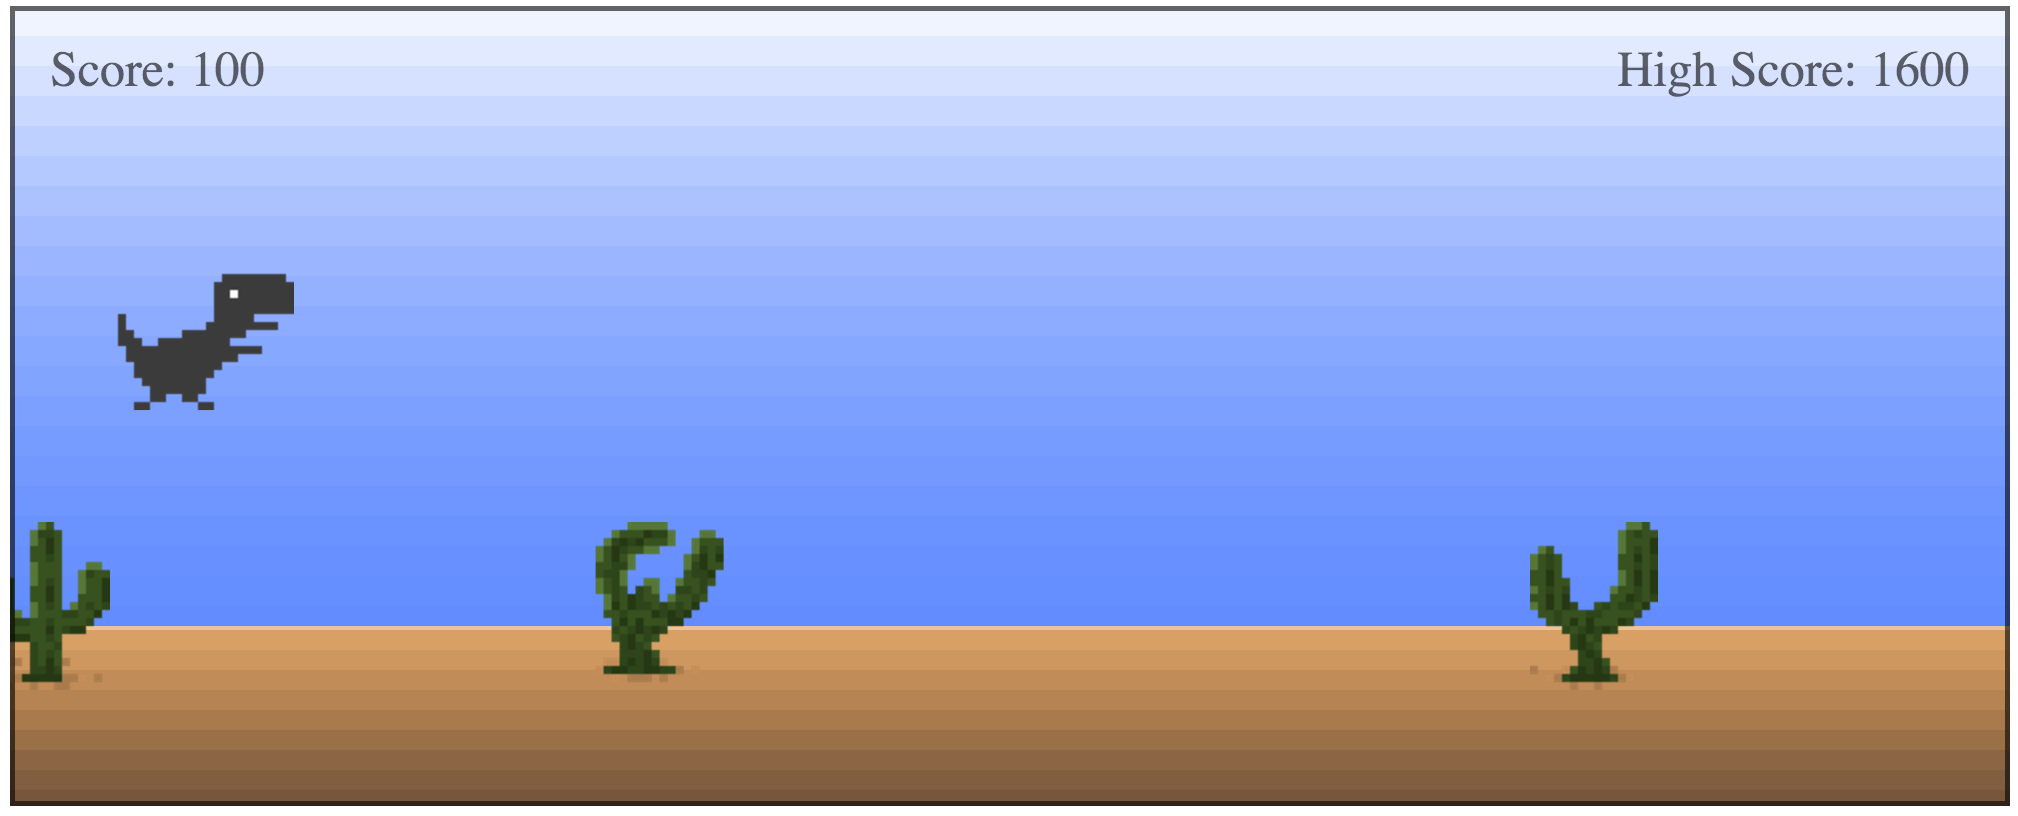
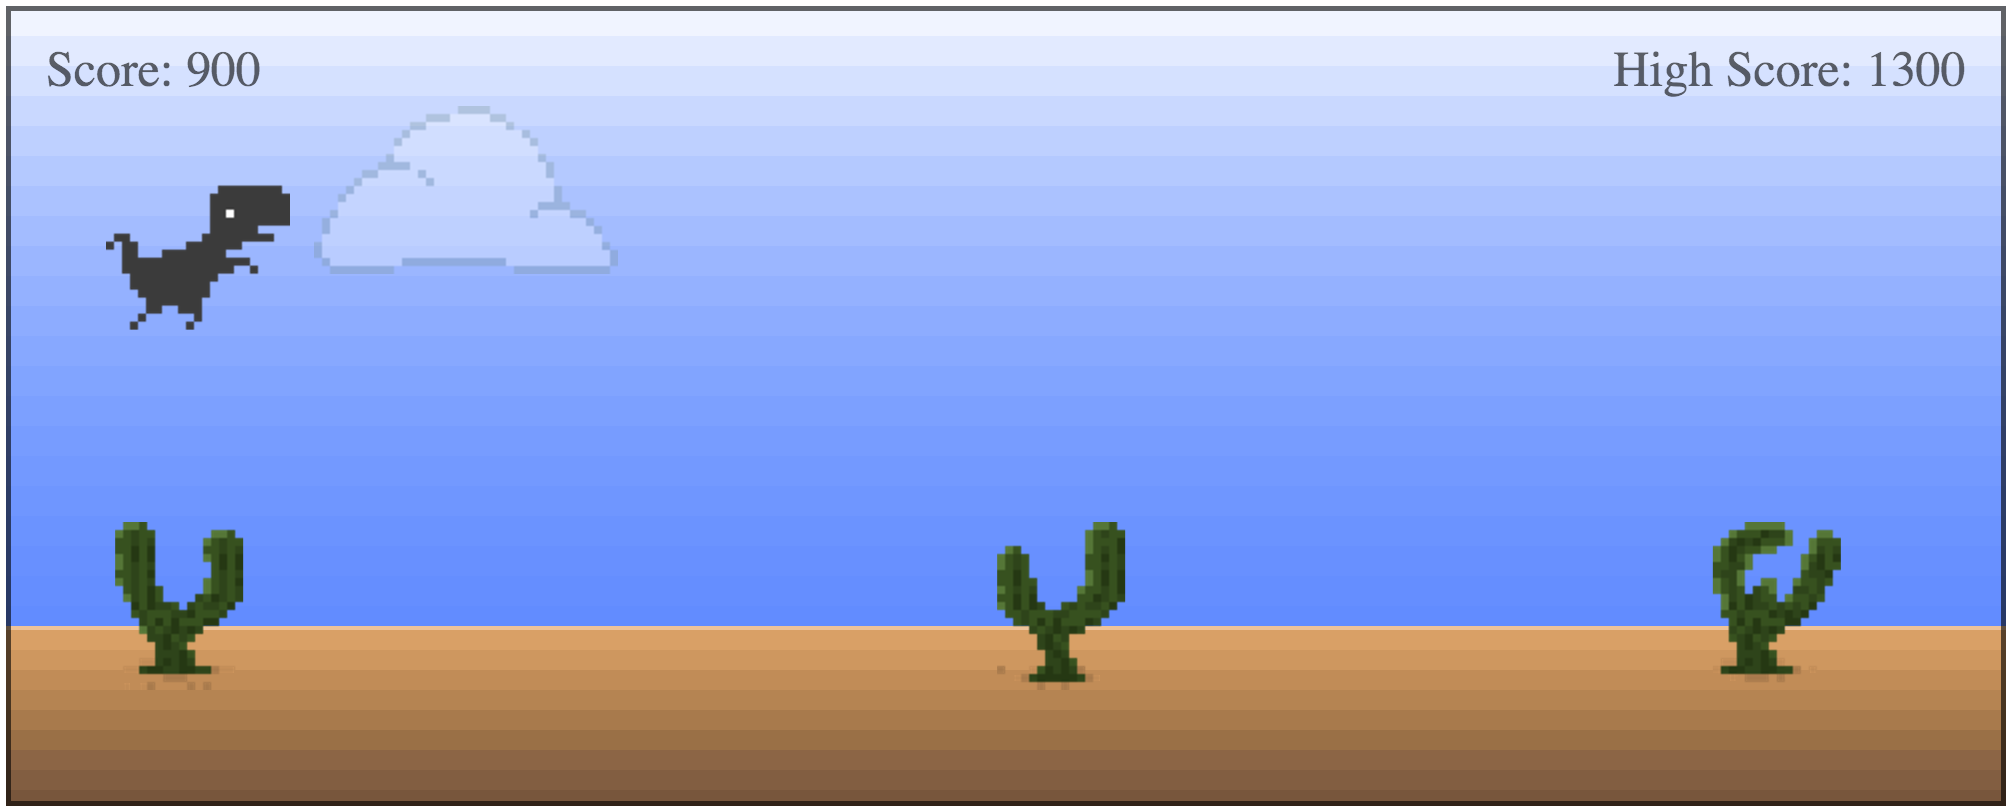
Deployed new version to gh-pages!

Changed region(s): [[0.0, 0.0308, 1.0, 1.0], [0.2157, 0.1232, 0.2465, 0.1539]]

diff --git a/target/elm.js b/target/elm.js
@@ -11578,6 +11578,64 @@ var _joelchelliah$elm_rex$CactusGenerator$Model = F3(
 		return {seed: a, cacti: b, spawnTimer: c};
 	});
 
+var _joelchelliah$elm_rex$Cloud$size = {width: 152, height: 84};
+var _joelchelliah$elm_rex$Cloud$view = function (cloud) {
+	return A2(
+		_elm_lang$svg$Svg$image,
+		{
+			ctor: '::',
+			_0: _elm_lang$svg$Svg_Attributes$x(
+				_elm_lang$core$Basics$toString(cloud.xPos)),
+			_1: {
+				ctor: '::',
+				_0: _elm_lang$svg$Svg_Attributes$y(
+					_elm_lang$core$Basics$toString(50)),
+				_1: {
+					ctor: '::',
+					_0: _elm_lang$svg$Svg_Attributes$width(
+						_elm_lang$core$Basics$toString(_joelchelliah$elm_rex$Cloud$size.width)),
+					_1: {
+						ctor: '::',
+						_0: _elm_lang$svg$Svg_Attributes$height(
+							_elm_lang$core$Basics$toString(_joelchelliah$elm_rex$Cloud$size.height)),
+						_1: {
+							ctor: '::',
+							_0: _elm_lang$svg$Svg_Attributes$opacity('0.3'),
+							_1: {
+								ctor: '::',
+								_0: _elm_lang$svg$Svg_Attributes$xlinkHref('images/clouds/cloud_0.png'),
+								_1: {ctor: '[]'}
+							}
+						}
+					}
+				}
+			}
+		},
+		{ctor: '[]'});
+};
+var _joelchelliah$elm_rex$Cloud$update = F2(
+	function (delta, _p0) {
+		var _p1 = _p0;
+		var _p5 = _p1.xPos;
+		var _p4 = _p1.speed;
+		var _p3 = _p1;
+		var _p2 = {ctor: '_Tuple2', _0: 0, _1: _joelchelliah$elm_rex$WindowSize$windowWidth - _joelchelliah$elm_rex$Cloud$size.width};
+		var leftEdge = _p2._0;
+		var rightEdge = _p2._1;
+		return (_elm_lang$core$Native_Utils.cmp(_p5, leftEdge) < 0) ? _elm_lang$core$Native_Utils.update(
+			_p3,
+			{xPos: leftEdge, speed: 0 - _p4}) : ((_elm_lang$core$Native_Utils.cmp(_p5, rightEdge) > 0) ? _elm_lang$core$Native_Utils.update(
+			_p3,
+			{xPos: rightEdge, speed: 0 - _p4}) : _elm_lang$core$Native_Utils.update(
+			_p3,
+			{xPos: _p3.xPos - (_p3.speed * delta)}));
+	});
+var _joelchelliah$elm_rex$Cloud$init = {xPos: 700, speed: 2.0e-2};
+var _joelchelliah$elm_rex$Cloud$Model = F2(
+	function (a, b) {
+		return {xPos: a, speed: b};
+	});
+
 var _joelchelliah$elm_rex$Hud$Model = F3(
 	function (a, b, c) {
 		return {score: a, highScore: b, state: c};
@@ -12157,9 +12215,9 @@ var _joelchelliah$elm_rex$Game$codeToRexMsg = function (code) {
 			return _joelchelliah$elm_rex$Rex$Run;
 	}
 };
-var _joelchelliah$elm_rex$Game$Model = F5(
-	function (a, b, c, d, e) {
-		return {state: a, hud: b, rex: c, cactusGen: d, seed: e};
+var _joelchelliah$elm_rex$Game$Model = F6(
+	function (a, b, c, d, e, f) {
+		return {state: a, hud: b, rex: c, cactusGen: d, cloud: e, seed: f};
 	});
 var _joelchelliah$elm_rex$Game$GameOver = {ctor: 'GameOver'};
 var _joelchelliah$elm_rex$Game$Paused = {ctor: 'Paused'};
@@ -12171,6 +12229,7 @@ var _joelchelliah$elm_rex$Game$init = function (seed) {
 		hud: _joelchelliah$elm_rex$Hud$init,
 		rex: _joelchelliah$elm_rex$Rex$init,
 		cactusGen: _joelchelliah$elm_rex$CactusGenerator$init(seed),
+		cloud: _joelchelliah$elm_rex$Cloud$init,
 		seed: _joelchelliah$elm_rex$Game$nextSeed(seed)
 	};
 };
@@ -12180,6 +12239,7 @@ var _joelchelliah$elm_rex$Game$restart = function (game) {
 		hud: A2(_joelchelliah$elm_rex$Hud$update, _joelchelliah$elm_rex$Hud$Reset, game.hud),
 		rex: _joelchelliah$elm_rex$Rex$init,
 		cactusGen: _joelchelliah$elm_rex$CactusGenerator$init(game.seed),
+		cloud: game.cloud,
 		seed: _joelchelliah$elm_rex$Game$nextSeed(game.seed)
 	};
 };
@@ -12204,10 +12264,18 @@ var _joelchelliah$elm_rex$Game$viewCacti = function (elems) {
 		{ctor: '[]'},
 		A2(_elm_lang$core$List$map, render, elems));
 };
-var _joelchelliah$elm_rex$Game$viewRex = function (rex) {
+var _joelchelliah$elm_rex$Game$viewCloud = function (cloud) {
 	return A2(
 		_elm_lang$html$Html$map,
 		function (_p7) {
+			return _joelchelliah$elm_rex$Game$SubMsg;
+		},
+		_joelchelliah$elm_rex$Cloud$view(cloud));
+};
+var _joelchelliah$elm_rex$Game$viewRex = function (rex) {
+	return A2(
+		_elm_lang$html$Html$map,
+		function (_p8) {
 			return _joelchelliah$elm_rex$Game$SubMsg;
 		},
 		_joelchelliah$elm_rex$Rex$view(rex));
@@ -12215,42 +12283,46 @@ var _joelchelliah$elm_rex$Game$viewRex = function (rex) {
 var _joelchelliah$elm_rex$Game$viewHud = function (hud) {
 	return A2(
 		_elm_lang$html$Html$map,
-		function (_p8) {
+		function (_p9) {
 			return _joelchelliah$elm_rex$Game$SubMsg;
 		},
 		_joelchelliah$elm_rex$Hud$view(hud));
 };
-var _joelchelliah$elm_rex$Game$view = function (_p9) {
-	var _p10 = _p9;
-	var _p12 = _p10.hud;
+var _joelchelliah$elm_rex$Game$view = function (_p10) {
+	var _p11 = _p10;
+	var _p13 = _p11.hud;
 	var sceneElements = {
 		ctor: '::',
 		_0: _joelchelliah$elm_rex$Game$viewBackground,
 		_1: {
 			ctor: '::',
-			_0: _joelchelliah$elm_rex$Game$viewCacti(_p10.cactusGen.cacti),
+			_0: _joelchelliah$elm_rex$Game$viewCacti(_p11.cactusGen.cacti),
 			_1: {
 				ctor: '::',
-				_0: _joelchelliah$elm_rex$Game$viewRex(_p10.rex),
+				_0: _joelchelliah$elm_rex$Game$viewCloud(_p11.cloud),
 				_1: {
 					ctor: '::',
-					_0: A2(_joelchelliah$elm_rex$Game$viewAlert, _p10.state, _p12.score),
+					_0: _joelchelliah$elm_rex$Game$viewRex(_p11.rex),
 					_1: {
 						ctor: '::',
-						_0: _joelchelliah$elm_rex$Game$viewHud(_p12),
-						_1: {ctor: '[]'}
+						_0: A2(_joelchelliah$elm_rex$Game$viewAlert, _p11.state, _p13.score),
+						_1: {
+							ctor: '::',
+							_0: _joelchelliah$elm_rex$Game$viewHud(_p13),
+							_1: {ctor: '[]'}
+						}
 					}
 				}
 			}
 		}
 	};
-	var _p11 = {
+	var _p12 = {
 		ctor: '_Tuple2',
 		_0: _elm_lang$core$Basics$toString(_joelchelliah$elm_rex$WindowSize$windowWidth),
 		_1: _elm_lang$core$Basics$toString(_joelchelliah$elm_rex$WindowSize$windowHeight)
 	};
-	var w = _p11._0;
-	var h = _p11._1;
+	var w = _p12._0;
+	var h = _p12._1;
 	var attributes = {
 		ctor: '::',
 		_0: _elm_lang$svg$Svg_Attributes$width(w),
@@ -12287,77 +12359,82 @@ var _joelchelliah$elm_rex$Game$spacePressed = function (msg) {
 		_joelchelliah$elm_rex$Game$KeyPressed(32));
 };
 var _joelchelliah$elm_rex$Game$updatePlaying = F2(
-	function (msg, _p13) {
-		var _p14 = _p13;
-		var _p20 = _p14.rex;
-		var _p19 = _p14;
-		var _p18 = _p14.hud;
-		var _p17 = _p14.cactusGen;
+	function (msg, _p14) {
+		var _p15 = _p14;
+		var _p22 = _p15.rex;
+		var _p21 = _p15.hud;
+		var _p20 = _p15;
+		var _p19 = _p15.cloud;
+		var _p18 = _p15.cactusGen;
 		if (_joelchelliah$elm_rex$Game$spacePressed(msg)) {
 			return _elm_lang$core$Native_Utils.update(
-				_p19,
+				_p20,
 				{state: _joelchelliah$elm_rex$Game$Paused});
 		} else {
-			var _p15 = msg;
-			switch (_p15.ctor) {
+			var _p16 = msg;
+			switch (_p16.ctor) {
 				case 'KeyPressed':
 					return _elm_lang$core$Native_Utils.update(
-						_p19,
+						_p20,
 						{
 							rex: A2(
 								_joelchelliah$elm_rex$Rex$update,
-								_joelchelliah$elm_rex$Game$codeToRexMsg(_p15._0),
-								_p20)
+								_joelchelliah$elm_rex$Game$codeToRexMsg(_p16._0),
+								_p22)
 						});
 				case 'KeyReleased':
 					return _elm_lang$core$Native_Utils.update(
-						_p19,
+						_p20,
 						{
-							rex: A2(_joelchelliah$elm_rex$Rex$update, _joelchelliah$elm_rex$Rex$Run, _p20)
+							rex: A2(_joelchelliah$elm_rex$Rex$update, _joelchelliah$elm_rex$Rex$Run, _p22)
 						});
 				case 'Tick':
-					var _p16 = _p15._0;
-					return A2(_joelchelliah$elm_rex$Rex$hitDetected, _p20, _p17.cacti) ? _elm_lang$core$Native_Utils.update(
-						_p19,
+					var _p17 = _p16._0;
+					return A2(_joelchelliah$elm_rex$Rex$hitDetected, _p22, _p18.cacti) ? _elm_lang$core$Native_Utils.update(
+						_p20,
 						{
 							state: _joelchelliah$elm_rex$Game$GameOver,
-							hud: A2(_joelchelliah$elm_rex$Hud$update, _joelchelliah$elm_rex$Hud$Highlight, _p18),
-							rex: A2(_joelchelliah$elm_rex$Rex$update, _joelchelliah$elm_rex$Rex$Kill, _p20)
+							hud: A2(_joelchelliah$elm_rex$Hud$update, _joelchelliah$elm_rex$Hud$Highlight, _p21),
+							rex: A2(_joelchelliah$elm_rex$Rex$update, _joelchelliah$elm_rex$Rex$Kill, _p22),
+							cloud: A2(_joelchelliah$elm_rex$Cloud$update, _p17, _p19)
 						}) : _elm_lang$core$Native_Utils.update(
-						_p19,
+						_p20,
 						{
 							rex: A2(
 								_joelchelliah$elm_rex$Rex$update,
-								_joelchelliah$elm_rex$Rex$Tick(_p16),
-								_p20),
-							cactusGen: A3(_joelchelliah$elm_rex$CactusGenerator$update, _p16, _p18.score, _p17),
-							hud: _joelchelliah$elm_rex$Rex$hasLandedFromJumping(_p20) ? A2(_joelchelliah$elm_rex$Hud$update, _joelchelliah$elm_rex$Hud$IncScore, _p18) : _p18
+								_joelchelliah$elm_rex$Rex$Tick(_p17),
+								_p22),
+							cactusGen: A3(_joelchelliah$elm_rex$CactusGenerator$update, _p17, _p21.score, _p18),
+							cloud: A2(_joelchelliah$elm_rex$Cloud$update, _p17, _p19),
+							hud: _joelchelliah$elm_rex$Rex$hasLandedFromJumping(_p22) ? A2(_joelchelliah$elm_rex$Hud$update, _joelchelliah$elm_rex$Hud$IncScore, _p21) : _p21
 						});
 				default:
-					return _p19;
+					return _p20;
 			}
 		}
 	});
 var _joelchelliah$elm_rex$Game$updatePaused = F2(
-	function (msg, model) {
+	function (msg, game) {
 		return _joelchelliah$elm_rex$Game$spacePressed(msg) ? _elm_lang$core$Native_Utils.update(
-			model,
-			{state: _joelchelliah$elm_rex$Game$Playing}) : model;
+			game,
+			{state: _joelchelliah$elm_rex$Game$Playing}) : game;
 	});
 var _joelchelliah$elm_rex$Game$updateGameOver = F2(
 	function (msg, game) {
 		if (_joelchelliah$elm_rex$Game$spacePressed(msg)) {
 			return _joelchelliah$elm_rex$Game$restart(game);
 		} else {
-			var _p21 = msg;
-			if (_p21.ctor === 'Tick') {
+			var _p23 = msg;
+			if (_p23.ctor === 'Tick') {
+				var _p24 = _p23._0;
 				return _elm_lang$core$Native_Utils.update(
 					game,
 					{
 						rex: A2(
 							_joelchelliah$elm_rex$Rex$update,
-							_joelchelliah$elm_rex$Rex$Tick(_p21._0),
-							game.rex)
+							_joelchelliah$elm_rex$Rex$Tick(_p24),
+							game.rex),
+						cloud: A2(_joelchelliah$elm_rex$Cloud$update, _p24, game.cloud)
 					});
 			} else {
 				return game;
@@ -12365,21 +12442,21 @@ var _joelchelliah$elm_rex$Game$updateGameOver = F2(
 		}
 	});
 var _joelchelliah$elm_rex$Game$update = F2(
-	function (msg, model) {
-		var _p22 = model.state;
-		switch (_p22.ctor) {
+	function (msg, game) {
+		var _p25 = game.state;
+		switch (_p25.ctor) {
 			case 'Playing':
-				return A2(_joelchelliah$elm_rex$Game$updatePlaying, msg, model);
+				return A2(_joelchelliah$elm_rex$Game$updatePlaying, msg, game);
 			case 'GameOver':
-				return A2(_joelchelliah$elm_rex$Game$updateGameOver, msg, model);
+				return A2(_joelchelliah$elm_rex$Game$updateGameOver, msg, game);
 			default:
-				return A2(_joelchelliah$elm_rex$Game$updatePaused, msg, model);
+				return A2(_joelchelliah$elm_rex$Game$updatePaused, msg, game);
 		}
 	});
 var _joelchelliah$elm_rex$Game$Tick = function (a) {
 	return {ctor: 'Tick', _0: a};
 };
-var _joelchelliah$elm_rex$Game$subscriptions = function (_p23) {
+var _joelchelliah$elm_rex$Game$subscriptions = function (_p26) {
 	return _elm_lang$core$Platform_Sub$batch(
 		{
 			ctor: '::',
@@ -12390,7 +12467,7 @@ var _joelchelliah$elm_rex$Game$subscriptions = function (_p23) {
 				_1: {
 					ctor: '::',
 					_0: _elm_lang$keyboard$Keyboard$ups(
-						function (_p24) {
+						function (_p27) {
 							return _joelchelliah$elm_rex$Game$KeyReleased;
 						}),
 					_1: {ctor: '[]'}
